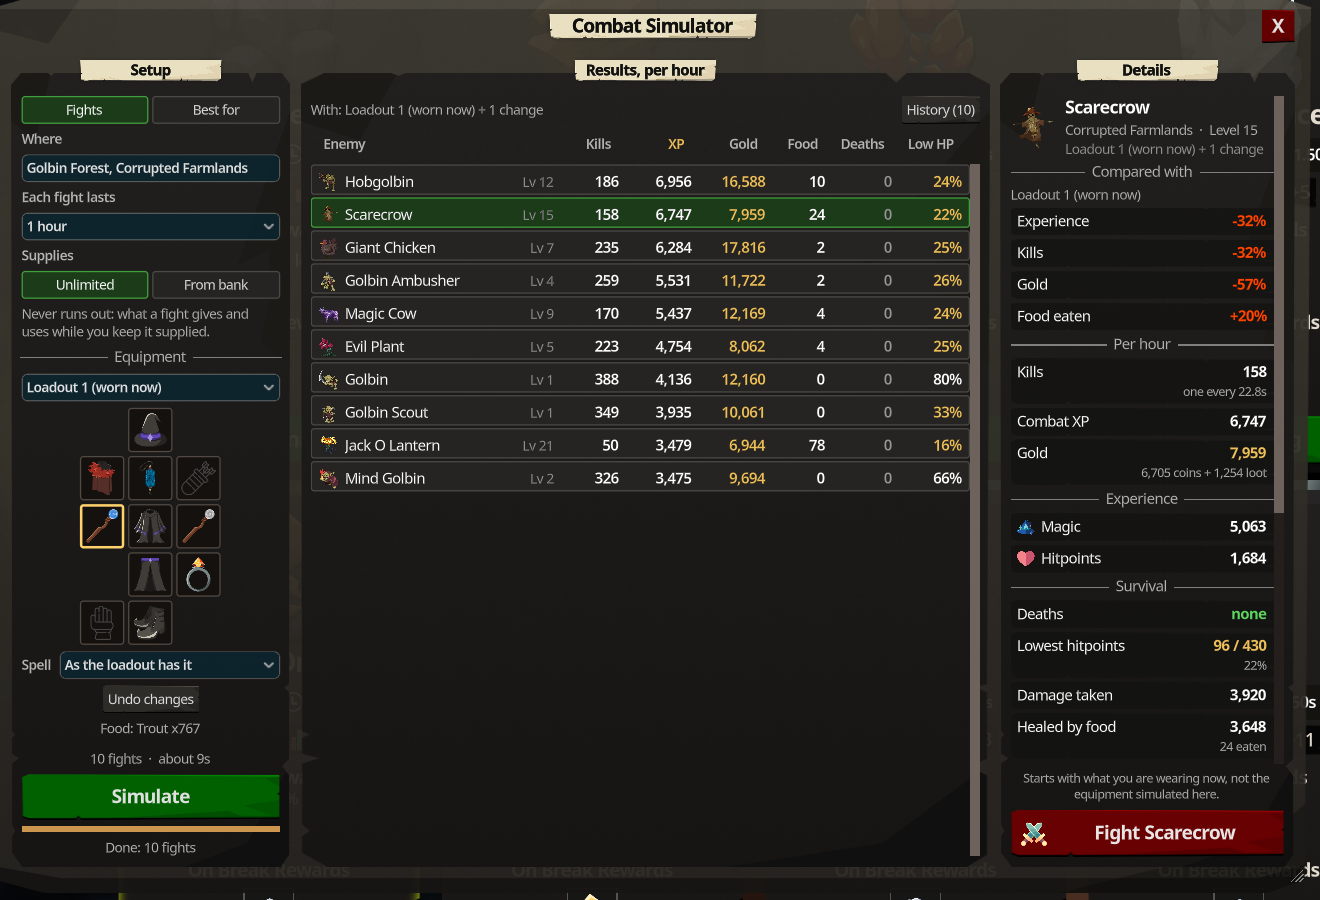
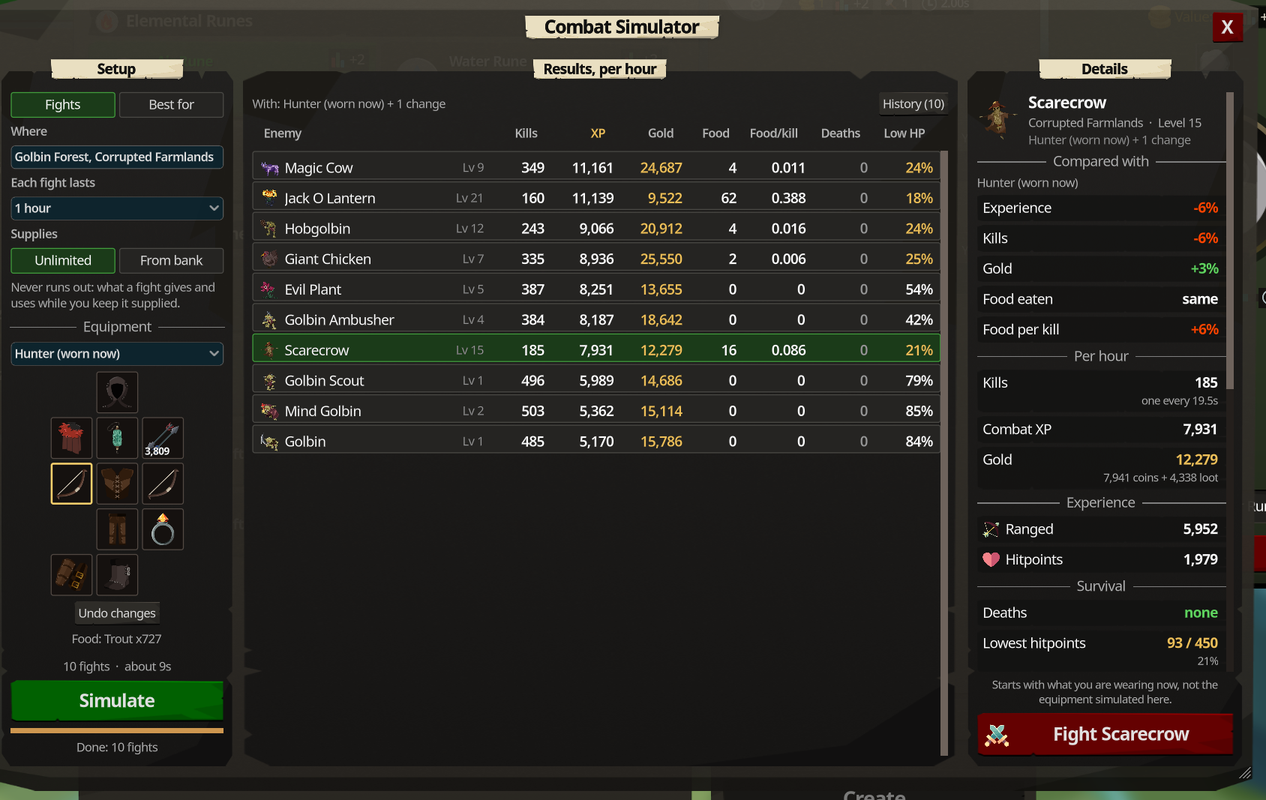
Combat Simulator: food per kill (#21)
A Food/kill column (the first click sorts the smallest to the top), food and healing per kill in Details, food per kill in Compared with, and how many kills the food in the bank lasts: estimated for the worn loadout, counted when a From bank run eats the bank empty. Fights that could not be simulated stay at the bottom of a sorted list. The guide, its pictures and the changelog follow.

Closes #18.

diff --git a/mods/CombatSim/SimView.cs b/mods/CombatSim/SimView.cs
@@ -67,6 +67,9 @@ sealed class SimState
     public bool SortDescending = true;
     public string FoodLine = "";
     public bool FoodMissing;
+    /// <summary>The worn loadout's food in the bank, as of opening the window; -1 when it is not known.</summary>
+    public long FoodInBank = -1;
+    public string FoodName = "", FoodLoadoutId = "";
     public bool Running;
     public int Done, Total;
     public string Current = "", Message = "";
@@ -169,7 +172,9 @@ sealed class SimView
 {
     static readonly Color Bad = new("ff4500"), Good = new("5fd35f");
 
-    sealed record Column(string Title, string Tip, float Width, Func<SimResult, double> Value, Func<SimResult, string> Text, Func<SimResult, Color> Tint);
+    // LessIsBetter: the first click on the column puts the smallest numbers on top.
+    sealed record Column(string Title, string Tip, float Width, Func<SimResult, double> Value, Func<SimResult, string> Text, Func<SimResult, Color> Tint,
+        bool LessIsBetter = false);
 
     Column[] Columns => _columns ??= new Column[]
     {
@@ -177,6 +182,8 @@ sealed class SimView
         new("XP", "Experience per hour: all combat skills together, or the skill you are training", 66, r => _state.Xp(r), r => Fmt(_state.Xp(r)), _ => GameStyle.TextWhite),
         new("Gold", "Coins dropped plus what the dropped items sell for, per hour", 66, r => r.GoldPerHour, r => Fmt(r.GoldPerHour), _ => GameStyle.TextGold),
         new("Food", "Food eaten per hour", 52, r => r.FoodPerHour, r => Fmt(r.FoodPerHour), _ => GameStyle.TextWhite),
+        new("Food/kill", "Food eaten per kill: the less, the longer your food lasts", 66, r => r.FoodPerKill,
+            r => r.Kills > 0 ? PerKill(r.FoodPerKill) : "-", r => r.Kills > 0 ? GameStyle.TextWhite : GameStyle.TextDim, LessIsBetter: true),
         new("Deaths", "Times you die per hour", 60, r => r.DeathsPerHour, r => r.Deaths == 0 ? "0" : Fmt(r.DeathsPerHour),
             r => r.Deaths == 0 ? GameStyle.TextDim : Bad),
         new("Low HP", "The lowest your hitpoints got, as a share of the maximum", 62, r => r.LowestHpFraction, r => r.LowestHpFraction.ToString("P0"),
@@ -928,7 +935,7 @@ sealed class SimView
         button.Pressed += () =>
         {
             if (_state.SortColumn == column) _state.SortDescending = !_state.SortDescending;
-            else { _state.SortColumn = column; _state.SortDescending = column >= 0; }
+            else { _state.SortColumn = column; _state.SortDescending = column >= 0 && !Columns[column].LessIsBetter; }
             _tableSignature = "";
             Refresh();
         };
@@ -940,10 +947,21 @@ sealed class SimView
     void FillRows()
     {
         var results = _state.Lines();
-        IEnumerable<SimResult> sorted = _state.SortColumn < 0
-            ? results.OrderBy(r => r.Target.Name, StringComparer.OrdinalIgnoreCase)
-            : results.OrderBy(r => r.Failed ? double.MinValue : Columns[_state.SortColumn].Value(r));
-        var ordered = (_state.SortDescending ? sorted.Reverse() : sorted).ToList();
+        List<SimResult> ordered;
+        if (_state.SortColumn < 0)
+        {
+            ordered = results.OrderBy(r => r.Target.Name, StringComparer.OrdinalIgnoreCase).ToList();
+            if (_state.SortDescending) ordered.Reverse();
+        }
+        else
+        {
+            Func<SimResult, double> value = Columns[_state.SortColumn].Value;
+            var simulated = results.Where(r => !r.Failed);
+            // Equal numbers are common (every fight that eats no food): the better experience first among them.
+            ordered = (_state.SortDescending ? simulated.OrderByDescending(value) : simulated.OrderBy(value)).ThenByDescending(_state.Xp).ToList();
+            // A fight that could not be simulated has no numbers to sort by: it goes last, whichever the direction.
+            ordered.AddRange(results.Where(r => r.Failed));
+        }
 
         foreach (Button header in _headers)
         {
@@ -1170,7 +1188,9 @@ sealed class SimView
                 _details.AddChild(Stat("Kills", Change(r.KillsPerHour, other.KillsPerHour), Tint(r.KillsPerHour, other.KillsPerHour)));
                 _details.AddChild(Stat("Gold", Change(r.GoldPerHour, other.GoldPerHour), Tint(r.GoldPerHour, other.GoldPerHour)));
                 // Less food eaten is the good direction.
-                _details.AddChild(Stat("Food eaten", Change(r.FoodPerHour, other.FoodPerHour), Tint(other.FoodPerHour, r.FoodPerHour)));
+                _details.AddChild(Stat("Food eaten", Change(r.FoodPerHour, other.FoodPerHour), LessTint(r.FoodPerHour, other.FoodPerHour)));
+                if (r.Kills > 0 && other.Kills > 0)
+                    _details.AddChild(Stat("Food per kill", Change(r.FoodPerKill, other.FoodPerKill), LessTint(r.FoodPerKill, other.FoodPerKill)));
             }
         }
 
@@ -1197,6 +1217,27 @@ sealed class SimView
             r.LowestHpFraction < 0.15 ? Bad : r.LowestHpFraction < 0.35 ? GameStyle.TextGold : GameStyle.TextWhite, r.LowestHpFraction.ToString("P0")));
         _details.AddChild(Stat("Damage taken", Fmt(r.PerHour(r.DamageTaken))));
         _details.AddChild(Stat("Healed by food", Fmt(r.PerHour(r.Healed)), null, $"{Fmt(r.FoodPerHour)} eaten"));
+        if (r.Kills > 0)
+        {
+            double perKill = r.FoodPerKill;
+            _details.AddChild(Stat("Food per kill", PerKill(perKill), null, EveryKills(perKill)));
+            if (r.FoodEaten > 0) _details.AddChild(Stat("Healed per kill", Fmt(r.HealedPerKill)));
+            // How far the food in the bank goes here; only known for the loadout the character wears.
+            // An earlier scan is of another day's fight; today's bank says nothing about it. A fight that
+            // ate the bank empty has counted it instead: see below.
+            if (perKill > 0 && r.FoodGoneSeconds < 0 && _state.Viewing == null && _state.FoodInBank >= 0 && r.SetupKey.Split(';')[0] == _state.FoodLoadoutId)
+            {
+                // Whole kills: the piece that is left over does not finish another one.
+                double kills = Math.Floor(_state.FoodInBank / perKill);
+                _details.AddChild(Stat("Your food lasts", kills >= 1 || _state.FoodInBank == 0 ? $"{Fmt(kills)} {(kills == 1 ? "kill" : "kills")}" : "less than 1 kill",
+                    null, $"{_state.FoodInBank:N0} {_state.FoodName} in the bank"));
+            }
+        }
+        else if (r.FoodEaten > 0) _details.AddChild(Stat("Food per kill", "-", GameStyle.TextDim, "nothing was killed"));
+        // From the bank, and the food ran out: the kills until then were counted, no estimate is needed.
+        if (r.FoodGoneSeconds >= 0)
+            _details.AddChild(Stat("Your food lasts", $"{Fmt(r.FoodGoneKills)} {(r.FoodGoneKills == 1 ? "kill" : "kills")}", Bad,
+                $"ran out after {Clock(r.FoodGoneSeconds)}"));
 
         if (r.Used.Count > 0)
         {
@@ -1231,6 +1272,13 @@ sealed class SimView
 
     static Color Tint(double mine, double theirs) =>
         theirs <= 0 || Math.Abs(mine / theirs - 1) < 0.005 ? GameStyle.TextWhite : mine > theirs ? Good : Bad;
+
+    // The same for what is better when it is less: food. Eating none where the other setup eats is green.
+    static Color LessTint(double mine, double theirs)
+    {
+        if (theirs <= 0) return mine > 0 ? Bad : GameStyle.TextWhite;
+        return Math.Abs(mine / theirs - 1) < 0.005 ? GameStyle.TextWhite : mine < theirs ? Good : Bad;
+    }
 
     // "[icon] Name                          value"
     // "                                     note"
@@ -1297,9 +1345,18 @@ sealed class SimView
     }
 
 #if DEVTOOLS
-    /// <summary>Development: opens the areas, the earlier scans, the newest scan, or the item picker of a slot.</summary>
+    /// <summary>
+    /// Development: opens the areas, the earlier scans, the newest scan, or the item picker of a slot;
+    /// "sort=Food/kill" is one click on that column's name, "details=end" scrolls the details to their last line.
+    /// </summary>
     public void DevOpenPicker(string slotName)
     {
+        if (slotName == "details=end") { if (_details.GetParent() is ScrollContainer scroll) scroll.ScrollVertical = int.MaxValue; return; }
+        if (slotName.StartsWith("sort=", StringComparison.Ordinal))
+        {
+            _headers.FirstOrDefault(h => h.Text.Equals(slotName[5..], StringComparison.OrdinalIgnoreCase))?.EmitSignal(BaseButton.SignalName.Pressed);
+            return;
+        }
         if (slotName == "where") { OpenAreas(); return; }
         if (slotName == "history") { OpenHistory(); return; }
         if (slotName == "view") { if (_state.History.FirstOrDefault() is { } newest) Show(newest); return; }
@@ -1351,6 +1408,22 @@ sealed class SimView
         0 => "0",
         _ => value.ToString("0.##"),
     };
+
+    // Food per kill is mostly a small fraction: three decimals where Fmt would round it to 0.
+    static string PerKill(double value) => value switch
+    {
+        0 => "0",
+        >= 1 => Fmt(value),
+        >= 0.001 => value.ToString("0.###"),
+        _ => "<0.001",
+    };
+
+    // "one piece every 125 kills" is easier to picture than 0.008. Nothing to add from one piece per kill up.
+    static string? EveryKills(double perKill)
+    {
+        double kills = perKill > 0 ? 1 / perKill : 0;
+        return kills >= 9.95 ? $"one piece every {kills:N0} kills" : kills >= 1.05 ? $"one piece every {kills:0.#} kills" : null;
+    }
 
     static string Clock(double seconds) => SimText.Clock(seconds);
 }

diff --git a/mods/CombatSim/SimEngine.cs b/mods/CombatSim/SimEngine.cs
@@ -236,7 +236,8 @@ sealed class SimEngine
         if (target.StanceId != null) Stand(combat, target, notes);
         Cast(combat, bank, options, notes);
         // "Never runs out" has to hold from the first bite: food that is selected but down to a handful.
-        if (options.UnlimitedSupplies && combat.Food.SelectedFood is { } food) TopUp(bank, food.Item, Stock);
+        Item? eaten = combat.Food.SelectedFood?.Item;
+        if (options.UnlimitedSupplies && eaten != null) TopUp(bank, eaten, Stock);
         combat.Player.GlobalHealth.Set(combat.Player.GlobalHealth.Max);
         result.MaxHp = combat.Player.Health.Max;
         result.LowestHp = combat.Player.Health.Current;
@@ -342,6 +343,14 @@ sealed class SimEngine
             if (ticks % CheckEvery != 0) continue;
             if (options.UnlimitedSupplies) Refill();
             if (cancel.IsCancellationRequested) break;
+            // Food from the bank can run out while the fight goes on; what follows is a fight without food.
+            if (!options.UnlimitedSupplies && result.FoodGoneSeconds < 0 && eaten != null && result.FoodEaten > 0 && bank.Inventory.GetQuantity(eaten) == 0)
+            {
+                result.FoodGoneSeconds = ticks / (double)TicksPerSecond;
+                result.FoodGoneKills = result.Kills;
+                notes.Add($"Ran out of {ItemName(eaten)} after {Clock(ticks)}.");
+                result.Note = string.Join(" ", notes);
+            }
             if (sim.ActionManager.HasActiveAction) continue;
 
             // The fight ended. After a death it goes on, to learn how often that happens; anything else
@@ -350,7 +359,9 @@ sealed class SimEngine
             deathsSeen = result.Deaths;
             if (!died)
             {
-                Amount? empty = used.Values.FirstOrDefault(u => !u.IsCurrency && sim.Data.GetDataRegistryOutput<Item>().TryGetObjectById(u.Id, out Item? item)
+                // The food that ran out has its note already.
+                Amount? empty = used.Values.FirstOrDefault(u => !u.IsCurrency && !(result.FoodGoneSeconds >= 0 && u.Id == eaten?.Id)
+                                                                && sim.Data.GetDataRegistryOutput<Item>().TryGetObjectById(u.Id, out Item? item)
                                                                 && bank.Inventory.GetQuantity(item) == 0 && combat.Equipment.GetEquippedQuantity(item) == 0);
                 notes.Add(empty != null ? $"Ran out of {empty.Name} after {Clock(ticks)}." : $"The fight stopped after {Clock(ticks)}.");
                 result.Note = string.Join(" ", notes);

diff --git a/mods/CombatSim/CombatSimMod.cs b/mods/CombatSim/CombatSimMod.cs
@@ -263,6 +263,10 @@ public class CombatSimMod : IMod, ISimLookup
         _state.FoodLine = !wornNow ? "Food: as that loadout has it"
             : food == null ? "No food selected: you will not heal."
             : $"Food: {food.Item.DisplayName.GetPluralText(2)} x{_bank?.Inventory.GetQuantity(food.Item) ?? 0:N0}";
+        // For "Your food lasts" in the details: the food of the worn loadout is the only one that can be read.
+        _state.FoodInBank = food != null && _bank != null ? _bank.Inventory.GetQuantity(food.Item) : -1;
+        _state.FoodName = food?.Item.DisplayName.GetPluralText(2) ?? "";
+        _state.FoodLoadoutId = worn ?? "";
 
         // The attack stances belong to the weapon of this setup; bare hands have their own.
         weapon ??= _combat.Equipment.DefaultWeapon?.Weapon?.Type;
@@ -580,7 +584,9 @@ public class CombatSimMod : IMod, ISimLookup
     // game goes into the mod's folder and the table into the log. The file holds
     //   <where>|<duration index>|<1 unlimited, 0 from bank>|<row to select>
     // where: "all", parts of area names joined by "+", "best <skill>" or "best <skill>@<areas>", or "open" to
-    // only open the window (with "where", "history" or "view" as the picker further on).
+    // only open the window (with "where", "history" or "view" as the picker further on). Pickers are joined by
+    // "+"; "sort=<column>" among them clicks that column's name, twice to turn the order around, and
+    // "details=end" scrolls the details down.
     int _devShotAt = -1;
     string? _devSelect, _devPicker;
     bool _devNoRun;
@@ -662,6 +668,7 @@ public class CombatSimMod : IMod, ISimLookup
             _ctx.Log($"Dev: rect = {(int)frame.Position.X},{(int)frame.Position.Y},{(int)frame.End.X},{(int)frame.End.Y}");
             foreach (SimResult r in _state.Results.Values.OrderByDescending(r => r.XpPerHour))
                 _ctx.Log($"Dev: [{r.SetupLabel}] {r.Target.Name + " " + r.Target.StanceName,-30} {string.Join(" ", r.Xp.Select(x => x.Key.Replace("MelvorBase:", "") + "=" + (x.Value / Math.Max(r.Hours, 1e-9)).ToString("N0")))} kills {r.KillsPerHour,7:N0}  xp {r.XpPerHour,8:N0}  gold {r.GoldPerHour,8:N0}  food {r.FoodPerHour,6:N1}  deaths {r.DeathsPerHour,5:N1}  " +
+                         $"eaten {r.FoodEaten} / killed {r.Kills} = {r.FoodPerKill:0.####}  healed {r.Healed}  food gone {(r.FoodGoneSeconds < 0 ? "-" : $"{r.FoodGoneSeconds:0}s, {r.FoodGoneKills} kills")}  " +
                          $"lowHP {r.LowestHpFraction,4:P0}  {r.RealMilliseconds,5:N0} ms  {r.Note}");
         }
     }

diff --git a/mods/CombatSim/SimModels.cs b/mods/CombatSim/SimModels.cs
@@ -54,6 +54,12 @@ sealed class SimResult
     public double FirstDeathSeconds = -1;
     public long DamageTaken, Healed;
     public int FoodEaten, LowestHp, MaxHp;
+    /// <summary>
+    /// With supplies from the bank: seconds of game time until the last piece of food was eaten, or -1 when
+    /// the food did not run out, and the kills made by then. The fight goes on without food after that.
+    /// </summary>
+    public double FoodGoneSeconds = -1;
+    public int FoodGoneKills;
     /// <summary>Skill id -> XP gained.</summary>
     public Dictionary<string, double> Xp = new();
     public List<Amount> Loot = new(), Used = new();
@@ -70,6 +76,9 @@ sealed class SimResult
     [JsonIgnore] public double CoinsPerHour => PerHour(Loot.Where(l => l.IsCurrency && l.Id == SimEngine.Gold).Sum(l => l.Quantity));
     [JsonIgnore] public double LootValuePerHour => PerHour(Loot.Where(l => !l.IsCurrency).Sum(l => l.Quantity * l.SellsFor));
     [JsonIgnore] public double FoodPerHour => PerHour(FoodEaten);
+    /// <summary>Pieces of food eaten for each kill; infinity when nothing was killed, the worst there is.</summary>
+    [JsonIgnore] public double FoodPerKill => Kills > 0 ? (double)FoodEaten / Kills : double.PositiveInfinity;
+    [JsonIgnore] public double HealedPerKill => Kills > 0 ? (double)Healed / Kills : 0;
     [JsonIgnore] public double LowestHpFraction => MaxHp > 0 ? (double)LowestHp / MaxHp : 1;
     [JsonIgnore] public double SecondsPerKill => Kills > 0 ? Hours * 3600 / Kills : 0;
 }

diff --git a/mods/CombatSim/README.md b/mods/CombatSim/README.md
@@ -66,21 +66,26 @@ Every number is **per hour of game time**, whatever length you simulated.
 | **XP** | Combat XP per hour, all skills together. In "Best for" it is the XP of the skill you chose, and the column is named after it. |
 | **Gold** | Coins dropped plus what the dropped items sell for. |
 | **Food** | Pieces of food eaten per hour. |
+| **Food/kill** | Pieces of food eaten per kill: the fight where your food lasts longest has the smallest number. The first click on it sorts the smallest to the top. A fight without a kill shows `-`. |
 | **Deaths** | Times you die per hour. Grey 0 is what you want; anything else is red. |
 | **Low HP** | The lowest your hitpoints got, as a share of the maximum. Gold under 35%, red under 15% or when you died. |
 
-Click a column's name to sort by it, again to turn the order around. `Lv 12` next to a name is the enemy's
-combat level; a dungeon says `Dungeon` and is simulated as a whole, run after run.
+Click a column's name to sort by it, again to turn the order around. Fights with the same number, like all
+those that eat no food, stand with the better XP first. `Lv 12` next to a name is the enemy's combat level;
+a dungeon says `Dungeon` and is simulated as a whole, run after run.
 
 The **Details** of a line, from top to bottom:
 
 - **Compared with**: only when the same fight was simulated with other equipment or another spell. Each
-  other setup gets four lines (Experience, Kills, Gold, Food eaten) saying how much better or worse *this*
-  setup is. Green is better; for food, less is better.
+  other setup gets lines for Experience, Kills, Gold, Food eaten and Food per kill saying how much better or
+  worse *this* setup is. Green is better; for food, less is better.
 - **Per hour**: kills (and how long one takes), dungeon runs, combat XP, and gold split into coins and loot.
 - **Experience**: XP per hour for each skill that gained any.
 - **Survival**: deaths and when the first one came, the lowest hitpoints, damage taken, and how much of it
-  food healed.
+  food healed. Then **Food per kill** (also as "one piece every 12 kills") and **Healed per kill**, and
+  **Your food lasts**: how many kills the food in your bank is enough for in this fight. That is worked out
+  from the food per kill, for the loadout you are wearing; when a From bank fight ate the last piece, it is
+  the number of kills it had counted by then, in red.
 - **Used**: what the fight consumed per hour: food, runes, arrows, prayer points.
 - **Loot**: every item dropped per hour, with what it sells for.
 
@@ -137,8 +142,10 @@ start. Tick fewer areas to keep it short.
 
 - **Unlimited** hands food, runes, arrows and prayer points back as they are used. These are the rates of a
   fight that is kept supplied: use it to compare places, equipment and spells.
-- **From bank** uses what you own right now and ends the fight when something runs out. Use it with a long
-  duration to see how far your supplies get you: the note on the result says what ran out and when.
+- **From bank** uses what you own right now. Use it with a long duration to see how far your supplies get
+  you: the note on the result says what ran out and when. Without arrows or runes the fight ends there.
+  Without food it goes on, and the deaths that follow are in the numbers; "Your food lasts" in the details
+  says how many kills the food was enough for.
 
 Either way, "Used" in the details tells you what an hour costs.
 
@@ -169,6 +176,8 @@ changes your equipment: if you simulated other items, you still have to put them
   have to own it), simulate again, read "Compared with".
 - **Can I leave this running overnight?** From bank, 12 hours. No deaths, and no "Ran out of" note, means
   yes. Low HP tells you how close it was.
+- **Which fight makes my food last longest?** Click Food/kill: the top line eats the least for each kill.
+  "Your food lasts" in its details says how many kills the food in your bank is enough for.
 - **Which spell?** Simulate once per spell and compare.
 - **Where is the gold?** Simulate everything and sort by Gold.
 
@@ -216,7 +225,7 @@ Everything is in `mods\CombatSim`:
 | --- | --- |
 | A fight is missing from the table after Cancel | A fight that was cut short is dropped; the finished ones are kept. |
 | "... could not be equipped (requirements not met?)" | The copy follows the game's rules: you do not meet that item's requirements. |
-| "Ran out of ... after ..." | From bank: that supply was used up, and the fight ended there. |
+| "Ran out of ... after ..." | From bank: that supply was used up. Without arrows or runes the fight ended there; without food it went on. |
 | "The fight could not be started" | The game refused to start it for the copy, usually an unmet requirement of the area. |
 | "The game did not write a fresh save to simulate from" | The snapshot could not be taken. Try again; if it stays, report it with the log. |
 | "This game version loads saves differently" or "copies are not being released" | A game update changed something the simulator depends on. It needs an update; the rest of the game is unaffected. |

diff --git a/CHANGELOG.md b/CHANGELOG.md
@@ -2,6 +2,15 @@
 
 From 0.3.0 on all the mods share one version, the repository's. Before that each mod had its own.
 
+## Unreleased
+
+- **Combat Simulator**: a Food/kill column, for when food is short: the fight with the smallest number makes
+  your food last longest, and the first click on the column puts it on top. Details add food and healing per
+  kill and how many kills the food in your bank is enough for, and "Compared with" says how food per kill
+  changed. A From bank fight now says when the food ran out, and how many kills it had made by then.
+- **Combat Simulator**: fights with the same number in the sorted column stand with the better XP first, and
+  a fight that could not be simulated stays at the bottom whichever way the list is sorted.
+
 ## 0.4.0
 
 For Melvor Idle 2 0.11.6-alpha.1 with Melvor Mod Loader 0.1.3 or newer (tried with 0.2.0). A seventh mod.
